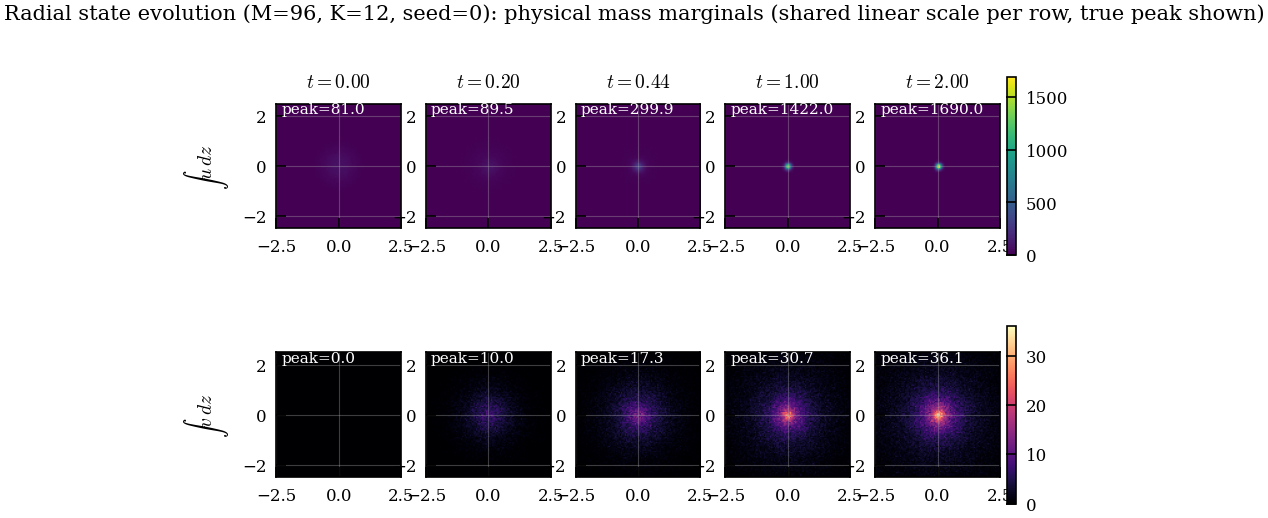
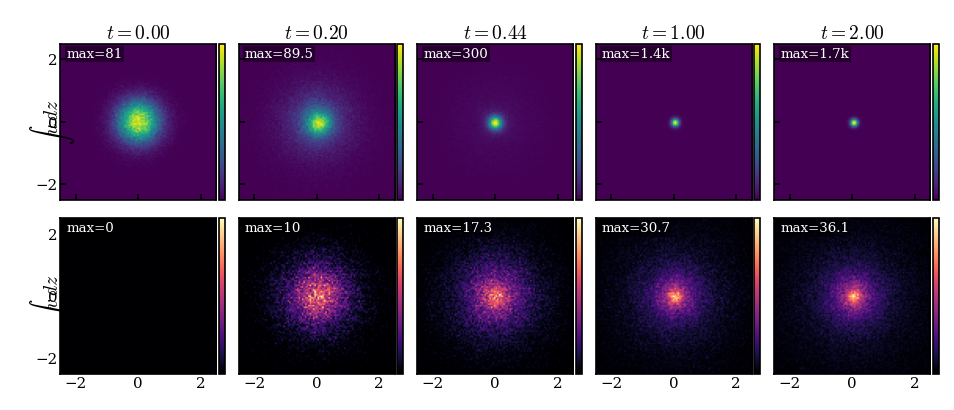
Tighten 3D state figure colorbars

diff --git a/experiments/keller_segel/fully_parabolic_3d/plot_radial_state.py b/experiments/keller_segel/fully_parabolic_3d/plot_radial_state.py
@@ -7,9 +7,9 @@ mass-conserving periodic histogram on the full box [-L/2,L/2]^2:
     sigma(x,y) = (omega / (dx*dy)) * (# particles in the (x,y) bin),
 
 so  sum_bins sigma * dx*dy = omega * N = M (the species mass).  This is a marginal, NOT
-a 3D slice.  Row 1 = u marginal, row 2 = v marginal; columns = saved times.  Shared
-LINEAR color scale within each row (vmin=0, vmax=row max); NO percentile clipping (the
-true peak is shown and annotated).  A per-panel-normalized companion figure is also saved
+a 3D slice.  Row 1 = u marginal, row 2 = v marginal; columns = saved times.  Each
+panel uses a LINEAR color scale (vmin=0, vmax=panel max); NO percentile clipping, and
+panel maxima are annotated.  A per-panel-normalized companion figure is also saved
 to reveal shape evolution (explicitly labelled).
 
   python plot_radial_state.py --clouds <clouds_seed0.npz> --out_root <validation_closure dir>
@@ -30,6 +30,21 @@ from paper_style import apply_style, TEXTWIDTH_IN  # noqa: E402
 apply_style()
 mpl.rcParams.update({"axes.titlesize": 7.0, "axes.labelsize": 7.0,
                      "xtick.labelsize": 6.0, "ytick.labelsize": 6.0})
+
+
+def _fmt_tick(x):
+    x = float(x)
+    if abs(x) < 1e-12:
+        return "0"
+    if abs(x) >= 1000:
+        return f"{x / 1000:.1f}k"
+    if abs(x) >= 100:
+        return f"{x:.0f}"
+    if abs(x) >= 10:
+        return f"{x:.1f}".rstrip("0").rstrip(".")
+    if abs(x) >= 1:
+        return f"{x:.2g}"
+    return f"{x:.1g}"
 
 
 def marginal(P, omega, L, bins, rng):
@@ -67,41 +82,59 @@ def render(S, out_root, prefix, disp=3.0):
     times, U, Vv = S["times"], S["U"], S["V"]
     nt = len(times)
     ext = [-S["rng"], S["rng"], -S["rng"], S["rng"]]
+    fig_w = TEXTWIDTH_IN
+    fig_h = 0.43 * TEXTWIDTH_IN
+    left = 0.30
+    right = 0.08
+    panel_gap = 0.070
+    cbar_pad = 0.012
+    cbar_w = 0.030
+    panel = (fig_w - left - right - (nt - 1) * panel_gap
+             - nt * (cbar_pad + cbar_w)) / nt
+    row_gap = 0.09
+    bottom = 0.18
+    top_y = bottom + panel + row_gap
     for variant in ("physical", "normalized"):
-        fig, ax = plt.subplots(2, nt, figsize=(TEXTWIDTH_IN, 0.62 * TEXTWIDTH_IN),
-                               squeeze=False)
+        fig = plt.figure(figsize=(fig_w, fig_h))
         for ri, (data, lab, cmap) in enumerate([(U, r"$\int u\,dz$", "viridis"),
                                                 (Vv, r"$\int v\,dz$", "magma")]):
-            vmax = float(data.max()) if data.max() > 0 else 1.0
+            y = top_y if ri == 0 else bottom
+            fig.text(0.055, (y + 0.5 * panel) / fig_h,
+                     lab + ("\n(norm.)" if variant == "normalized" else ""),
+                     rotation=90, va="center", ha="center", fontsize=7)
             for ci in range(nt):
+                x = left + ci * (panel + cbar_pad + cbar_w + panel_gap)
+                ax = fig.add_axes([x / fig_w, y / fig_h, panel / fig_w, panel / fig_h])
+                cax = fig.add_axes([(x + panel + cbar_pad) / fig_w, y / fig_h,
+                                    cbar_w / fig_w, panel / fig_h])
                 A = data[ci]
+                panel_max = float(A.max())
                 if variant == "normalized":
                     A = A / (A.max() if A.max() > 0 else 1.0); vlim = 1.0
                 else:
-                    vlim = vmax
-                im = ax[ri, ci].imshow(A, origin="lower", extent=ext, cmap=cmap,
-                                       vmin=0, vmax=vlim, aspect="equal")
-                ax[ri, ci].set_xlim(-disp, disp); ax[ri, ci].set_ylim(-disp, disp)
+                    vlim = panel_max if panel_max > 0 else 1.0
+                im = ax.imshow(A, origin="lower", extent=ext, cmap=cmap,
+                               vmin=0, vmax=vlim, aspect="equal")
+                ax.set_xlim(-disp, disp); ax.set_ylim(-disp, disp)
                 if ri == 0:
-                    ax[ri, ci].set_title(rf"$t={times[ci]:.2f}$", fontsize=7)
-                if ci == 0:
-                    ax[ri, ci].set_ylabel(lab + ("\n(per-panel norm.)" if variant == "normalized"
-                                                  else ""), fontsize=7)
-                pk = S["peakU"][ci] if ri == 0 else S["peakV"][ci]
-                ax[ri, ci].text(0.04, 0.92, f"peak={pk:.1f}", transform=ax[ri, ci].transAxes,
-                                fontsize=5.5, color="w")
-                ax[ri, ci].tick_params(labelsize=6)
-            cb = fig.colorbar(im, ax=ax[ri, :].tolist(), fraction=0.012, pad=0.01)
-            cb.ax.tick_params(labelsize=6)
-        ttl = ("physical mass marginals (shared linear scale per row, true peak shown)"
-               if variant == "physical" else
-               "normalized shape (each panel scaled to its own peak)")
-        fig.suptitle(f"Radial state evolution (M={S['M']:g}, K={S['K_dyn']}, seed={S['seed']}): "
-                     + ttl, fontsize=7.5)
+                    ax.set_title(rf"$t={times[ci]:.2f}$", fontsize=7, pad=2)
+                ax.text(0.04, 0.91, f"max={_fmt_tick(panel_max)}", transform=ax.transAxes,
+                        fontsize=4.8, color="w",
+                        bbox=dict(facecolor="k", edgecolor="none", alpha=0.45, pad=0.6))
+                ax.set_xticks([-2, 0, 2]); ax.set_yticks([-2, 0, 2])
+                if ri == 0:
+                    ax.set_xticklabels([])
+                if ci != 0:
+                    ax.set_yticklabels([])
+                ax.tick_params(labelsize=5.4, length=2, pad=1)
+                ax.grid(False)
+                cb = fig.colorbar(im, cax=cax)
+                cb.set_ticks([])
         suffix = "" if variant == "physical" else "_normalized"
         fd = os.path.join(out_root, "figures"); os.makedirs(fd, exist_ok=True)
         for e in ("pdf", "png"):
-            fig.savefig(os.path.join(fd, f"{prefix}{suffix}.{e}"), dpi=200, bbox_inches="tight")
+            with mpl.rc_context({"savefig.bbox": "standard"}):
+                fig.savefig(os.path.join(fd, f"{prefix}{suffix}.{e}"), dpi=200)
         plt.close(fig)
 
 

diff --git a/paper/cmame/cmame-main.tex b/paper/cmame/cmame-main.tex
@@ -1376,8 +1376,7 @@ shows the corresponding evolution of the $xy$-mass marginals of $u$ and $v$.
     rows show the mass marginals $\int u(x,y,z)\,dz$ and
     $\int v(x,y,z)\,dz$, respectively, at representative times. The cell
     distribution initially spreads and subsequently contracts after the
-    chemical field has developed. A common linear color scale is used within
-    each row.
+    chemical field has developed. Each panel uses its own linear color scale.
     }
     \label{fig:ks3d_state}
 \end{figure}